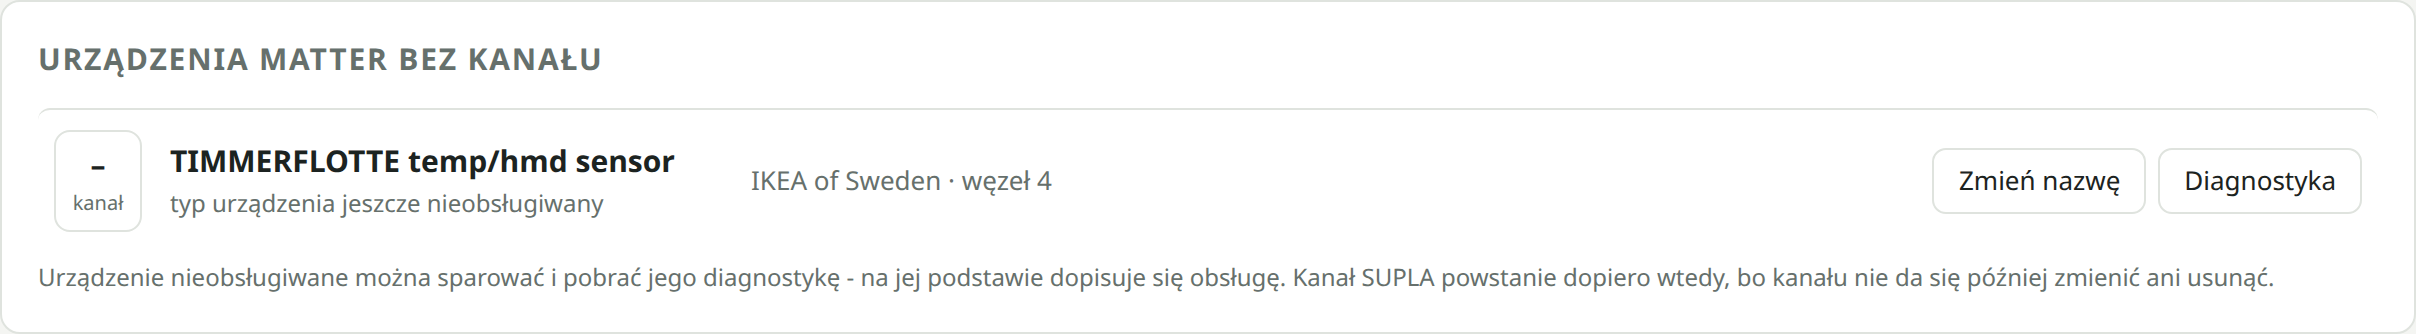
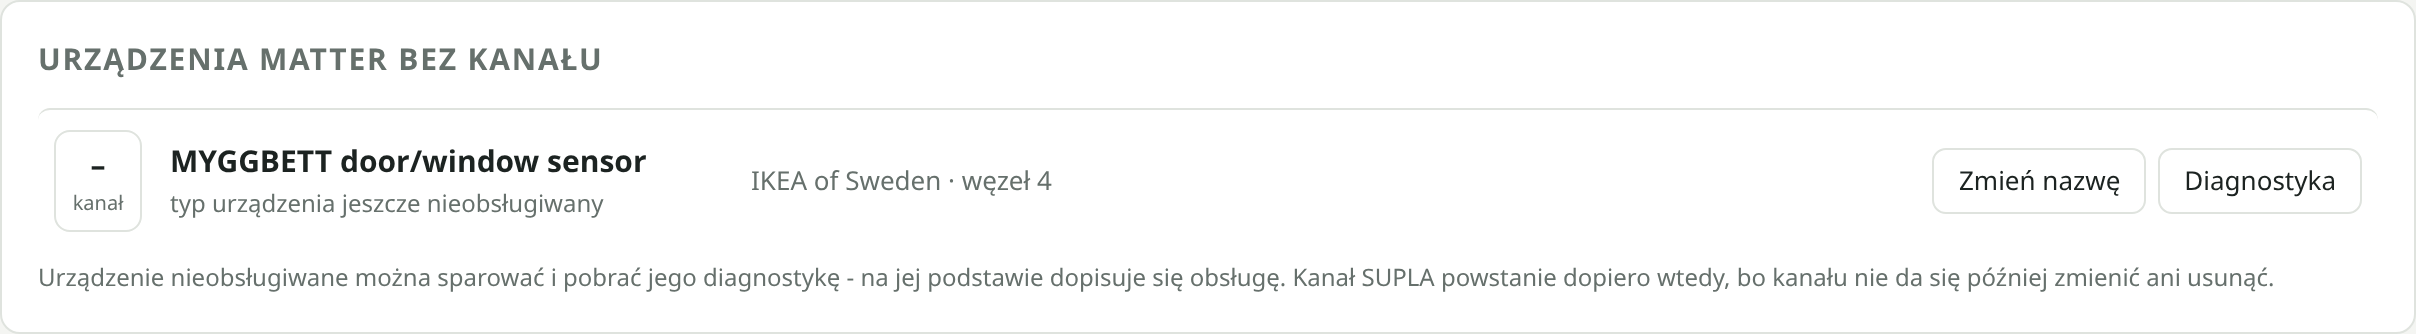
Dokumentacja: nowe zrzuty panelu, zrzuty z SUPLA Cloud i aplikacji mobilnej
Panel na rozszerzonych danych przykładowych (żarówka RGB, czujniki), strona "Jak urządzenia
wyglądają w SUPLA", statusy w README według potwierdzeń na sprzęcie. GUID urządzenia na
zrzutach z Cloud zamazany.

diff --git a/docs/img/make_screenshots.py b/docs/img/make_screenshots.py
@@ -52,6 +52,8 @@ NOW = time.time()
 COMMON = {"vendor": "IKEA of Sweden", "last_seen": NOW, "can_identify": True, "groups": []}
 PLUG = {**COMMON, "product": "GRILLPLATS Plug", "firmware": "1.4.6"}
 BULB_E27 = {**COMMON, "product": "KAJPLATS E27 WS globe 1521lm", "firmware": "1.1.0"}
+SENSOR = {**COMMON, "can_identify": False}
+ALPSTUGA = {**SENSOR, "product": "ALPSTUGA air quality monitor", "firmware": "1.0.15"}
 BULB_GU10 = {**COMMON, "product": "KAJPLATS GU10 WS 575lm", "firmware": "1.1.0"}
 
 STATE = {
@@ -77,7 +79,7 @@ STATE = {
         {"name": "grillplats_plug_2_meter", "caption": "Gniazdko - biurko - licznik", "node_id": "2",
          "endpoint": 2, "type": "meter", "supla_channel": 2, "cloud_id": 1203, "state": "measuring", "caption_linked": True,
          "meter": {"voltage": 236.8, "current": 0.104, "power": 14.6, "energy": 1.273},
-         **{**PLUG, "can_identify": False}},
+         "can_command": False, **{**PLUG, "can_identify": False}},
         {"name": "grupa_1", "caption": "Żyrandol - jadalnia", "node_id": "0", "endpoint": 0,
          "type": "light_group", "supla_channel": 3, "cloud_id": 1204, "state": "on", "caption_linked": False,
          "brightness": 80, "temperature": 45, "members_available": 2, "can_identify": True,
@@ -95,6 +97,27 @@ STATE = {
         {"name": "grillplats_plug_7", "caption": "Gniazdko - choinka", "node_id": "7", "endpoint": 1,
          "type": "onoff", "supla_channel": 4, "cloud_id": 1205, "state": "unavailable", "caption_linked": False,
          **{**PLUG, "last_seen": NOW - 3 * 3600, "can_identify": False}},
+        {"name": "kajplats_e27_cws_globe_1055lm_14", "caption": "Lampa - sypialnia", "node_id": "14", "endpoint": 1,
+         "type": "light_rgb", "supla_channel": 5, "cloud_id": 1206, "state": "on", "caption_linked": False,
+         "brightness": 70, "temperature": 40, "mode": "color", "color": "#ff5a1e", "startup": "previous",
+         **{**COMMON, "product": "KAJPLATS E27 CWS globe 1055lm", "firmware": "1.2.0"}},
+        {"name": "klippbok_water_leak_sensor_15_leak", "caption": "Czujnik zalania - łazienka", "node_id": "15",
+         "endpoint": 1, "type": "leak", "supla_channel": 6, "cloud_id": 1207, "state": "measuring",
+         "caption_linked": False, "sensor": {"state": 0, "battery": 100}, "can_command": False,
+         **{**SENSOR, "product": "KLIPPBOK water leak sensor", "firmware": "1.0.11"}},
+        {"name": "timmerflotte_temp_hmd_sensor_16_climate", "caption": "Temperatura - garaż", "node_id": "16",
+         "endpoint": 1, "type": "climate", "supla_channel": 7, "cloud_id": 1208, "state": "measuring",
+         "caption_linked": False, "sensor": {"temperature": 22.8, "humidity": 34.1, "battery": 100}, "can_command": False,
+         **{**SENSOR, "product": "TIMMERFLOTTE temp/hmd sensor", "firmware": "1.0.21"}},
+        {"name": "alpstuga_air_quality_monitor_17_climate", "caption": "Powietrze - salon - temperatura i wilgotność",
+         "node_id": "17", "endpoint": 1, "type": "climate", "supla_channel": 8, "cloud_id": 1209, "state": "measuring",
+         "caption_linked": False, "sensor": {"temperature": 21.7, "humidity": 32.0}, "can_command": False, **ALPSTUGA},
+        {"name": "alpstuga_air_quality_monitor_17_co2", "caption": "Powietrze - salon - CO2", "node_id": "17",
+         "endpoint": 1, "type": "co2", "supla_channel": 9, "cloud_id": 1210, "state": "measuring",
+         "caption_linked": False, "sensor": {"value": 391.0}, "can_command": False, **ALPSTUGA},
+        {"name": "alpstuga_air_quality_monitor_17_pm25", "caption": "Powietrze - salon - PM2.5", "node_id": "17",
+         "endpoint": 1, "type": "pm25", "supla_channel": 10, "cloud_id": 1211, "state": "measuring",
+         "caption_linked": False, "sensor": {"value": 5.0}, "can_command": False, **ALPSTUGA},
     ],
     "lights": [
         {"node_id": "3", "endpoint": 1, "label": "Lampa - salon", "available": True, "supla_channel": 1},
@@ -102,7 +125,7 @@ STATE = {
         {"node_id": "6", "endpoint": 1, "label": "KAJPLATS GU10 WS 575lm", "available": True, "supla_channel": None},
     ],
     "candidates": [
-        {"node_id": "4", "available": True, "vendor": "IKEA of Sweden", "product": "TIMMERFLOTTE temp/hmd sensor",
+        {"node_id": "4", "available": True, "vendor": "IKEA of Sweden", "product": "MYGGBETT door/window sensor",
          "endpoint": None, "supported": False, "reason": "typ urządzenia jeszcze nieobsługiwany", "control": None},
     ],
     "commission": {"running": False, "message": None, "error": None},
@@ -172,7 +195,7 @@ async def main() -> None:
             await page.locator(selector).screenshot(path=OUT / f"{name}.png")
 
         await page.click('.tabs button[data-tab="kanaly"]')
-        await page.locator("#devices .item >> nth=2").locator("button.more").click()  # szczegóły światła
+        await page.locator("#devices .item", has_text="Lampa - sypialnia").locator("button.more").click()  # szczegóły światła kolorowego
         await page.wait_for_timeout(400)
         await shot("kanaly", "#tab-kanaly section >> nth=0", "panel-kanaly")
         await shot("kanaly", "#candidates-section", "panel-bez-kanalu")

diff --git a/README.md b/README.md
@@ -40,6 +40,8 @@ Skrót dla Raspberry Pi; wersja krok po kroku, z wyjaśnieniami: [docs/instalacj
 
    ![Panel WWW - kanały SUPLA (przykładowe dane)](docs/img/panel-kanaly.png)
 
+   Jak te urządzenia wyglądają w SUPLA (Cloud i aplikacja mobilna): [docs/widok-w-supla.md](docs/widok-w-supla.md).
+
 4. **Kopia zapasowa** powstaje codziennie o 03:30; pobierz jedną od razu po pierwszym parowaniu i trzymaj poza urządzeniem: [docs/kopie-zapasowe.md](docs/kopie-zapasowe.md).
 
 5. **Aktualizacja** - panel informuje o nowym wydaniu; aktualizuje się ręcznie: `sudo ./host/update.sh` ([docs/aktualizacja.md](docs/aktualizacja.md)).
@@ -60,12 +62,12 @@ Co obsługuje łącznik:
 | Panel WWW: konto SUPLA, parowanie kodem i zdjęciem QR, kanały ze szczegółami i identyfikacją urządzenia („Znajdź”), lokalne nazwy, odnośniki do SUPLA Cloud, logi, diagnostyka, kopie | działa na sprzęcie |
 | Wersjonowane wydania i ręczna aktualizacja `host/update.sh` z kopią i wycofaniem | działa na sprzęcie; wycofanie sprawdzone tylko na atrapach |
 | Światła z regulacją bieli (KAJPLATS) jako kanał SUPLA „ściemniacz CCT”: jasność i temperatura bieli | działa na sprzęcie; wymaga protokołu SUPLA 28 na serwerze |
-| Światła kolorowe (KAJPLATS CWS) jako kanał SUPLA „ściemniacz CCT + RGB”: jasność, biel i kolor | napisane, testy jednostkowe na zrzucie prawdziwej żarówki, rozszerzenie kompiluje się w obrazie; sterowanie z aplikacji SUPLA i z panelu niesprawdzone na sprzęcie |
+| Światła kolorowe (KAJPLATS CWS) jako kanał SUPLA „ściemniacz CCT + RGB”: jasność, biel i kolor | kanał rejestruje się w SUPLA i działa jako „ściemniacz CCT i RGB”, kolory z panelu docierają do żarówki, stan wraca do Cloud ([zrzuty](docs/widok-w-supla.md)); sterowanie kolorem z aplikacji SUPLA do potwierdzenia |
 | Grupy świateł: jeden kanał SUPLA dla kilku świateł tego samego rodzaju, obok zwykłych kanałów pojedynczych ([opis](docs/panel-www.md#grupy-świateł)) | działa na sprzęcie (cztery KAJPLATS GU10 w jednej grupie): parowanie prosto do grupy, stan w SUPLA, sterowanie z panelu; sterowanie grupą z aplikacji SUPLA do potwierdzenia |
 | Licznik energii gniazdka (napięcie, prąd, moc, energia) - kanał jednofazowy | działa na sprzęcie (GRILLPLATS) |
-| Czujnik zalania (KLIPPBOK) jako kanał SUPLA `BinaryParsed`, z poziomem baterii | napisane, testy na zrzucie prawdziwego czujnika; w SUPLA niesprawdzone na sprzęcie |
-| Czujnik temperatury i wilgotności (TIMMERFLOTTE) jako kanał SUPLA `ThermHygroMeterParsed`, z poziomem baterii | napisane, testy na zrzucie prawdziwego czujnika; w SUPLA niesprawdzone na sprzęcie |
-| Monitor jakości powietrza (ALPSTUGA): trzy kanały - temperatura i wilgotność, CO2, PM2.5 | napisane, testy na zrzucie prawdziwego urządzenia; w SUPLA niesprawdzone na sprzęcie; bez indeksu jakości powietrza |
+| Czujnik zalania (KLIPPBOK) jako kanał SUPLA `BinaryParsed`, z poziomem baterii | działa na sprzęcie: kanał i poziom baterii widoczne w SUPLA Cloud ([zrzut](docs/widok-w-supla.md)); zachowanie przy wykryciu wody niesprawdzone |
+| Czujnik temperatury i wilgotności (TIMMERFLOTTE) jako kanał SUPLA `ThermHygroMeterParsed`, z poziomem baterii | działa na sprzęcie: odczyty widoczne w aplikacji SUPLA, z baterią ([zrzut](docs/img/supla-app-kanaly.png)) |
+| Monitor jakości powietrza (ALPSTUGA): trzy kanały - temperatura i wilgotność, CO2, PM2.5 | działa na sprzęcie: temperatura, wilgotność, CO2 i PM2.5 widoczne w aplikacji SUPLA ([zrzut](docs/img/supla-app-kanaly.png)); bez indeksu jakości powietrza |
 | Inne czujniki i typy urządzeń | nieobsługiwane - można sparować i pobrać zrzut diagnostyczny |
 
 Jeszcze niesprawdzone na sprzęcie: instalacja `host/install.sh` na czystym systemie, odtworzenie kopii zapasowej na drugim urządzeniu, płytki ESP32-C6 i ESP32-H2 jako dongle.

diff --git a/docs/panel-www.md b/docs/panel-www.md
@@ -152,7 +152,7 @@ Sekcja pojawia się, gdy sparowane są urządzenia, które nie mają kanału SUP
 
 - kilka czujników na jednym endpoincie (ALPSTUGA: temperatura i wilgotność, CO2, PM2.5): przy ręcznym dodawaniu przycisk dodaje ten kanał, na którym go naciśnięto, ale zdejmuje też blokadę „bez kanału” z całego endpointu, więc pozostałe czujniki dopiszą się wtedy same;
 - typy jeszcze nieobsługiwane (np. czujniki ruchu i kontaktu) - można je sparować i pobrać diagnostykę, na podstawie której dopisuje się obsługę;
-- światła z regulacją bieli przy `lights_as_channels: false` - bez kanału SUPLA, ale z przyciskami włącz/wyłącz oraz suwakami jasności i bieli. Domyślnie takie światło dostaje kanał „ściemniacz CCT” i te same suwaki są w sekcji kanałów. Światło kolorowe (KAJPLATS CWS) dostaje kanał „ściemniacz CCT + RGB”, a w szczegółach ma dodatkowo selektor koloru: koło barwy i nasycenia (kąt to barwa, odległość od środka to nasycenie, środek jest biały), osiem gotowych kolorów i pole `#rrggbb` z podglądem. Kolor trafia do żarówki po puszczeniu myszy lub palca (w trakcie przeciągania widać tylko podgląd, a odświeżanie listy jest wstrzymane), a jasność reguluje suwak obok. Wybór koloru przełącza żarówkę na tryb koloru, suwak bieli z powrotem na biel. Światła kolorowe nie należą do grup. Żarówka kolorowa sparowana przed tą funkcją jest rozpoznawana jako światło z regulacją bieli bez kanału; po aktualizacji łącznika zmienia rodzaj na „światło kolorowe” i kanał można jej dodać przyciskiem „Dodaj kanał”.
+- światła z regulacją bieli przy `lights_as_channels: false` - bez kanału SUPLA, ale z przyciskami włącz/wyłącz oraz suwakami jasności i bieli. Domyślnie takie światło dostaje kanał „ściemniacz CCT” i te same suwaki są w sekcji kanałów. Światło kolorowe (KAJPLATS CWS, [zrzut](img/panel-kanaly.png)) dostaje kanał „ściemniacz CCT + RGB”, a w szczegółach ma dodatkowo selektor koloru: koło barwy i nasycenia (kąt to barwa, odległość od środka to nasycenie, środek jest biały), osiem gotowych kolorów i pole `#rrggbb` z podglądem. Kolor trafia do żarówki po puszczeniu myszy lub palca (w trakcie przeciągania widać tylko podgląd, a odświeżanie listy jest wstrzymane), a jasność reguluje suwak obok. Wybór koloru przełącza żarówkę na tryb koloru, suwak bieli z powrotem na biel. Światła kolorowe nie należą do grup. Żarówka kolorowa sparowana przed tą funkcją jest rozpoznawana jako światło z regulacją bieli bez kanału; po aktualizacji łącznika zmienia rodzaj na „światło kolorowe” i kanał można jej dodać przyciskiem „Dodaj kanał”.
 
 - urządzenia sparowane z wyborem „Bez kanału SUPLA” - mają przycisk „Dodaj kanał”, a światła także suwaki w szczegółach.
 

diff --git a/docs/widok-w-supla.md b/docs/widok-w-supla.md
@@ -1,0 +1,43 @@
+# Jak urządzenia wyglądają w SUPLA
+
+Zrzuty z prawdziwej instalacji: konto testowe na SUPLA Cloud i aplikacja mobilna SUPLA (Android). Identyfikator urządzenia (GUID) na zrzutach z Cloud zamazano. Co jest sprawdzone na sprzęcie, a co nie - w [README](../README.md#stan-projektu).
+
+Wszystkie kanały należą do jednego urządzenia SUPLA „Matter2Supla” (kolejne kanały to kolejne urządzenia Matter, patrz [jak-to-dziala.md](jak-to-dziala.md)). Funkcję kanału (np. „czujnik zalania”) ustawia się w SUPLA Cloud, nazwa kanału jest początkowa i można ją tam zmienić - nie wraca do panelu łącznika.
+
+## Lista kanałów
+
+W SUPLA Cloud (przeglądarka) - urządzenie „Matter2Supla” ze wszystkimi kanałami: gniazdka, liczniki energii, żarówki (WS i CWS), czujnik zalania, temperatura i wilgotność oraz trzy kanały monitora jakości powietrza:
+
+![SUPLA Cloud - kanały urządzenia Matter2Supla](img/supla-www-kanaly.png)
+
+W aplikacji mobilnej (lokalizacja z czujnikami i żarówką):
+
+![Aplikacja SUPLA - lista kanałów](img/supla-app-kanaly.png)
+
+## Żarówka z regulacją bieli (KAJPLATS WS)
+
+Kanał typu „ściemniacz CCT”: suwak jasności i suwak temperatury bieli (od zimnej do ciepłej).
+
+![Aplikacja SUPLA - żarówka WS](img/supla-app-zarowka-ws.png)
+
+## Żarówka kolorowa (KAJPLATS CWS)
+
+Kanał typu „ściemniacz CCT i RGB” (`MatterRgbLight`). Żarówka świeci naraz tylko jednym trybem, bielą albo kolorem, więc w Cloud biel i kolor mają osobne wartości, ale tylko jedna z nich jest niezerowa.
+
+![SUPLA Cloud - kanał żarówki CWS](img/supla-www-kanal-cws.png)
+
+W aplikacji są dwa widoki: „Ściemniacz” (jasność i biel) oraz „RGB” (koło kolorów i jasność koloru):
+
+![Aplikacja SUPLA - żarówka CWS, biel](img/supla-app-zarowka-cws.png)
+
+![Aplikacja SUPLA - żarówka CWS, wybór koloru](img/supla-app-zarowka-cws-kolor.png)
+
+## Czujnik zalania (KLIPPBOK)
+
+Kanał typu „czujnik binarny” z funkcją „czujnik zalania”; poziom baterii jest widoczny w stanie kanału. Przełącznik „Odwrócona logika” w Cloud zamienia znaczenie stanu, gdyby czujnik pokazywał zalanie odwrotnie.
+
+![SUPLA Cloud - kanał czujnika zalania](img/supla-www-kanal-zalanie.png)
+
+## Czujniki środowiskowe
+
+Temperatura i wilgotność (TIMMERFLOTTE, ALPSTUGA) są jednym kanałem „termometr i higrometr”, a CO2 i pył PM2.5 (ALPSTUGA) osobnymi kanałami „ogólny kanał pomiarowy” z jednostkami ppm i µg/m³ (widać je na liście kanałów w aplikacji powyżej).

diff --git a/docs/README.md b/docs/README.md
@@ -15,6 +15,7 @@ Przegląd projektu, wymagania i stan prac: [../README.md](../README.md).
 
 - [Aktualizacja](aktualizacja.md) - wersje i tagi obrazów, powiadomienie w panelu, ręczna aktualizacja `host/update.sh`, cofanie.
 - [Rozwiązywanie problemów](rozwiazywanie-problemow.md) - objawy i rozwiązania z rzeczywistych uruchomień.
+- [Jak urządzenia wyglądają w SUPLA](widok-w-supla.md) - zrzuty z SUPLA Cloud i aplikacji mobilnej.
 - [Jak to działa](jak-to-dziala.md) - tematy MQTT, dostępność i offline, trwałość kanałów SUPLA, pliki, porty.
 - [Polecenia CLI łącznika](cli.md) - `m2s-bridge` i jego opcje.
 
@@ -24,14 +25,14 @@ Przegląd projektu, wymagania i stan prac: [../README.md](../README.md).
 
 ## Zrzuty ekranu panelu
 
-Wykonane na przykładowych danych skryptem [`img/make_screenshots.py`](img/make_screenshots.py); opis sekcji w [panel-www.md](panel-www.md).
+Zrzuty panelu wykonane na przykładowych danych skryptem [`img/make_screenshots.py`](img/make_screenshots.py); opis sekcji w [panel-www.md](panel-www.md).
 
 | Widok | Plik |
 | --- | --- |
 | Cały panel (komputer) | [img/panel.png](img/panel.png) |
 | Panel na telefonie (zakładka „Parowanie”) | [img/panel-telefon.png](img/panel-telefon.png) |
 | Logowanie | [img/panel-logowanie.png](img/panel-logowanie.png) |
-| Kanały SUPLA | [img/panel-kanaly.png](img/panel-kanaly.png) |
+| Kanały SUPLA (z żarówką kolorową i selektorem koloru, czujnikami) | [img/panel-kanaly.png](img/panel-kanaly.png) |
 | Grupy świateł | [img/panel-grupy.png](img/panel-grupy.png) |
 | Logi | [img/panel-logi.png](img/panel-logi.png) |
 | Urządzenia Matter bez kanału | [img/panel-bez-kanalu.png](img/panel-bez-kanalu.png) |
